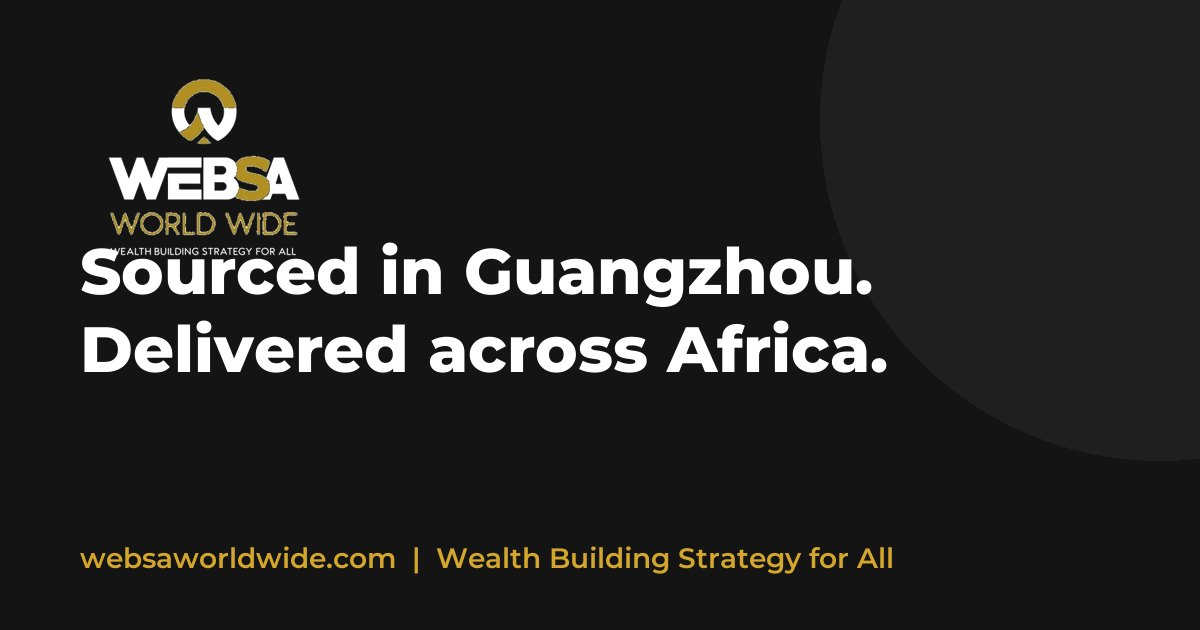
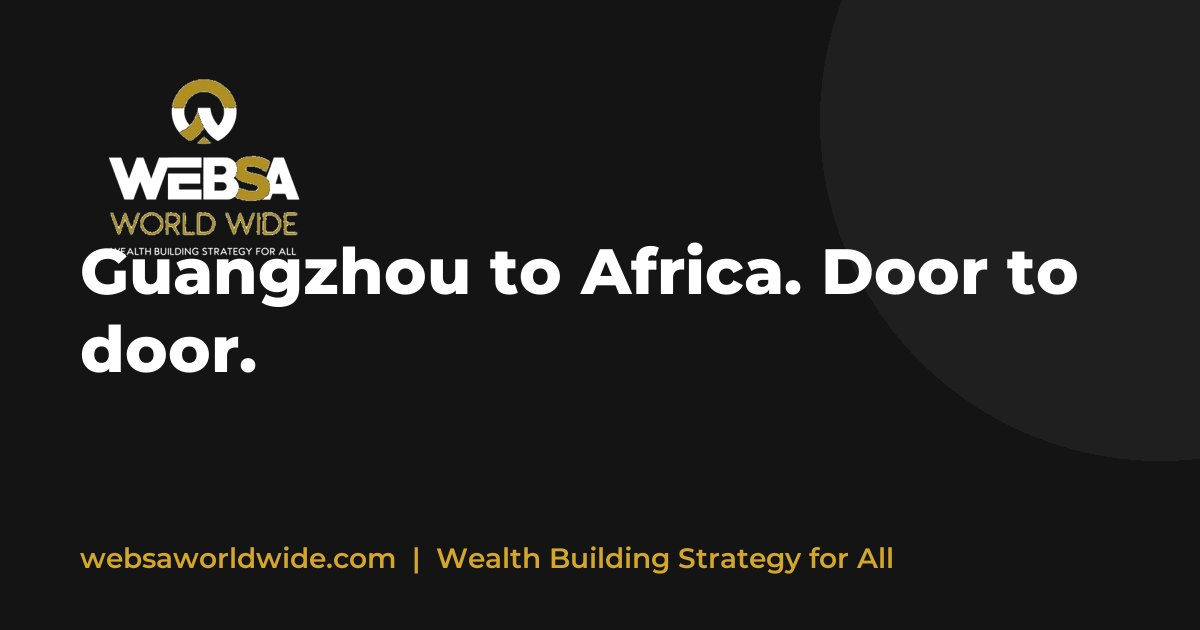
Hero headline without the word sourced

Changed region(s): [[0.0617, 0.3921, 0.8942, 0.4825], [0.0617, 0.5127, 0.74, 0.6032]]

diff --git a/site/pt/index.html b/site/pt/index.html
@@ -9,7 +9,7 @@
 <link rel="alternate" hreflang="en" href="https://websaworldwide.com/"><link rel="alternate" hreflang="zh-Hans" href="https://websaworldwide.com/zh/"><link rel="alternate" hreflang="pt" href="https://websaworldwide.com/pt/"><link rel="alternate" hreflang="x-default" href="https://websaworldwide.com/">
 <meta property="og:type" content="website">
 <meta property="og:site_name" content="Websa Worldwide">
-<meta property="og:title" content="Comprado em Guangzhou. Entregue em toda a África.">
+<meta property="og:title" content="De Guangzhou para África. Porta a porta.">
 <meta property="og:description" content="A Websa Worldwide compra, transporta e entrega equipamento, produtos e projectos em toda a África a partir da sua sede em Guangzhou. Comércio, energia, construção e agricultura desde 1999.">
 <meta property="og:url" content="https://websaworldwide.com/pt/">
 <meta property="og:image" content="https://websaworldwide.com/assets/og/index.jpg">
@@ -110,7 +110,7 @@
   <button class="pause" type="button" aria-pressed="false" aria-label="Pausar a apresentação de fundo"><svg class="ico-pause" viewBox="0 0 24 24" fill="currentColor" aria-hidden="true"><rect x="6" y="5" width="4" height="14" rx="1"/><rect x="14" y="5" width="4" height="14" rx="1"/></svg><svg class="ico-play" viewBox="0 0 24 24" fill="currentColor" aria-hidden="true"><path d="M8 5v14l11-7z"/></svg></button>
   <div class="inner">
     <span class="kicker"><i></i>Directamente da fábrica em Guangzhou até à sua porta</span>
-    <h1>Comprado em Guangzhou. Entregue em toda a África<span class="dot">.</span></h1>
+    <h1>De Guangzhou para África. Porta a porta<span class="dot">.</span></h1>
     <p class="lede">A Websa Worldwide compra, transporta e entrega o equipamento, os produtos e os projectos que constroem negócios em toda a África Austral. Um único parceiro, da fábrica à entrega.</p>
     <div class="btn-row">
       <a class="btn btn-gold" href="quote.html">Pedir cotação</a>

diff --git a/site/index.html b/site/index.html
@@ -9,7 +9,7 @@
 <link rel="alternate" hreflang="en" href="https://websaworldwide.com/"><link rel="alternate" hreflang="zh-Hans" href="https://websaworldwide.com/zh/"><link rel="alternate" hreflang="pt" href="https://websaworldwide.com/pt/"><link rel="alternate" hreflang="x-default" href="https://websaworldwide.com/">
 <meta property="og:type" content="website">
 <meta property="og:site_name" content="Websa Worldwide">
-<meta property="og:title" content="Sourced in Guangzhou. Delivered across Africa.">
+<meta property="og:title" content="Guangzhou to Africa. Door to door.">
 <meta property="og:description" content="Websa Worldwide sources, ships and delivers equipment, products and projects across Africa from its Guangzhou head office. Trade, energy, construction and agriculture since 1999.">
 <meta property="og:url" content="https://websaworldwide.com/">
 <meta property="og:image" content="https://websaworldwide.com/assets/og/index.jpg">
@@ -110,7 +110,7 @@
   <button class="pause" type="button" aria-pressed="false" aria-label="Pause background slideshow"><svg class="ico-pause" viewBox="0 0 24 24" fill="currentColor" aria-hidden="true"><rect x="6" y="5" width="4" height="14" rx="1"/><rect x="14" y="5" width="4" height="14" rx="1"/></svg><svg class="ico-play" viewBox="0 0 24 24" fill="currentColor" aria-hidden="true"><path d="M8 5v14l11-7z"/></svg></button>
   <div class="inner">
     <span class="kicker"><i></i>Factory-direct from Guangzhou to your door</span>
-    <h1>Sourced in Guangzhou. Delivered across Africa<span class="dot">.</span></h1>
+    <h1>Guangzhou to Africa. Door to door<span class="dot">.</span></h1>
     <p class="lede">Websa Worldwide sources, ships and delivers the equipment, products and projects that build businesses across Southern Africa. One partner from factory floor to hand-over.</p>
     <div class="btn-row">
       <a class="btn btn-gold" href="quote.html">Get a quotation</a>

diff --git a/site/zh/index.html b/site/zh/index.html
@@ -9,7 +9,7 @@
 <link rel="alternate" hreflang="en" href="https://websaworldwide.com/"><link rel="alternate" hreflang="zh-Hans" href="https://websaworldwide.com/zh/"><link rel="alternate" hreflang="pt" href="https://websaworldwide.com/pt/"><link rel="alternate" hreflang="x-default" href="https://websaworldwide.com/">
 <meta property="og:type" content="website">
 <meta property="og:site_name" content="Websa Worldwide">
-<meta property="og:title" content="广州采购，送达全非洲。">
+<meta property="og:title" content="从广州到非洲，送货上门。">
 <meta property="og:description" content="Websa Worldwide 从广州总部为非洲各地采购、运输并交付设备、产品和项目。贸易、能源、建筑和农业，始于 1999 年。">
 <meta property="og:url" content="https://websaworldwide.com/zh/">
 <meta property="og:image" content="https://websaworldwide.com/assets/og/index.jpg">
@@ -110,7 +110,7 @@
   <button class="pause" type="button" aria-pressed="false" aria-label="暂停背景幻灯片"><svg class="ico-pause" viewBox="0 0 24 24" fill="currentColor" aria-hidden="true"><rect x="6" y="5" width="4" height="14" rx="1"/><rect x="14" y="5" width="4" height="14" rx="1"/></svg><svg class="ico-play" viewBox="0 0 24 24" fill="currentColor" aria-hidden="true"><path d="M8 5v14l11-7z"/></svg></button>
   <div class="inner">
     <span class="kicker"><i></i>从广州工厂直达您的门口</span>
-    <h1>广州采购，送达全非洲<span class="dot">。</span></h1>
+    <h1>从广州到非洲，送货上门<span class="dot">。</span></h1>
     <p class="lede">Websa Worldwide 采购、运输并交付助力南部非洲企业成长的设备、产品和项目。从工厂车间到项目交付，只需一个伙伴。</p>
     <div class="btn-row">
       <a class="btn btn-gold" href="quote.html">获取报价</a>

diff --git a/build.py b/build.py
@@ -570,7 +570,7 @@ def home():
   <button class="pause" type="button" aria-pressed="false" aria-label="Pause background slideshow">%(pause)s%(play)s</button>
   <div class="inner">
     <span class="kicker"><i></i>Factory-direct from Guangzhou to your door</span>
-    <h1>Sourced in Guangzhou. Delivered across Africa<span class="dot">.</span></h1>
+    <h1>Guangzhou to Africa. Door to door<span class="dot">.</span></h1>
     <p class="lede">Websa Worldwide sources, ships and delivers the equipment, products and projects that build businesses across Southern Africa. One partner from factory floor to hand-over.</p>
     <div class="btn-row">
       <a class="btn btn-gold" href="quote.html">Get a quotation</a>
@@ -695,7 +695,7 @@ def home():
               ("Making a difference", "index.html#difference", "Street lights that taught a town to install them")]
     return page("index.html", "Websa Worldwide | Sourcing, trade and projects from Guangzhou for Africa",
                 "Websa Worldwide sources, ships and delivers equipment, products and projects across Africa from its Guangzhou head office. Trade, energy, construction and agriculture since 1999.",
-                body, body_class="has-bottom-bar", search=search, og_title="Sourced in Guangzhou. Delivered across Africa.")
+                body, body_class="has-bottom-bar", search=search, og_title="Guangzhou to Africa. Door to door.")
 
 def about():
     tl = [("1999", "A programme for farmers", "Lazarus Magura starts WEBSA, Wealth Building Strategy for All, in Zimbabwe: investment sourcing, equipment procurement, training and coaching to make farmers and their value chain self-sufficient and profitable."),
